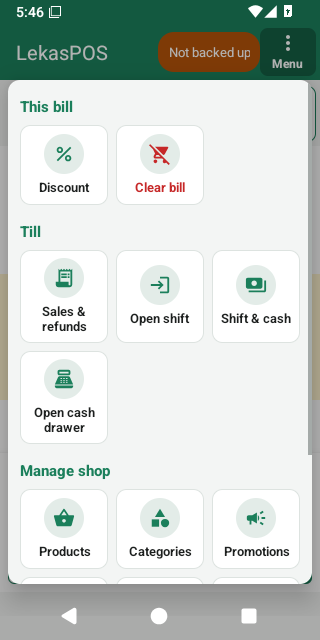
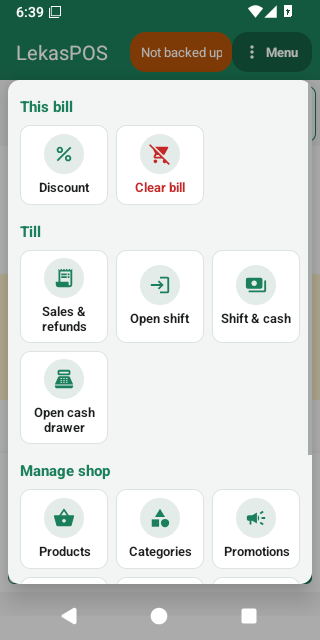
1.17.1 test build published (build 182); guide pictures with the Menu pill

Changed region(s): [[0.4062, 0.0312, 0.9375, 0.125], [0.0938, 0.0, 0.1562, 0.0312], [0.0312, 0.0, 0.0625, 0.0312]]

diff --git a/docs/PHASES.md b/docs/PHASES.md
@@ -39,7 +39,7 @@ to the user. **The next phase starts only after the user's real-device feedback.
 | — | **1.16.1**: a clock corrected back a moment no longer signs the cashier out after Android restarted the app (D-075) | **released** 2026-10-12 (v1.16.1, build 173) — the owner tested it on the phone (2026-10-13): "all good"; offered in the app to shops on 1.6.1+ |
 | — | **1.16.0**: icons and groups — the Menu as one sheet of tiles (This bill, Till, Manage shop: the back office one tap away), Settings in five groups with icons, icons on Inventory, the main buttons and payment methods, product pictures in the Products list, red Delete buttons, four misleading texts fixed (D-074) | **released** 2026-10-12 (v1.16.0, build 169) — the owner asked to release it without a test build first; offered in the app to shops on 1.6.1+; phone checks still to run |
 | — | **1.15.0**: a multi-buy with several prices ("2 for RM3, 3 for RM4"), the bill takes the cheapest mix; promotions made per price on the same products combine (D-073) | **released** 2026-10-12 (v1.15.0, build 162) — the owner tested it: "all good"; offered in the app to shops on 1.6.1+ |
-| — | **1.17.0**: the owner's feedback on 1.16.1 — every tappable control looks like a button (dialog buttons, payment, "Tap here" texts); the catalogue opens on All; held sideways the tiles start at the top; no Share after a sale; Settings → Beep sound (this till's speaker by default, not the cast TV) (D-076) | test build v1.17.0 (build 180) → **1.17.1** on branch `ui-feedback`: the bill right under the bar again, Menu a pill (the owner's check of 1.17.0) |
+| — | **1.17.0**: the owner's feedback on 1.16.1 — every tappable control looks like a button (dialog buttons, payment, "Tap here" texts); the catalogue opens on All; held sideways the tiles start at the top; no Share after a sale; Settings → Beep sound (this till's speaker by default, not the cast TV) (D-076) | test builds v1.17.0 (build 180) and **v1.17.1** (build 182: the bill right under the bar again, Menu a pill) — waiting for the owner's phone check |
 
 ## Open questions for the user
 
@@ -2071,7 +2071,17 @@ bill only") and where Share goes ("remove after a sale only").
 - [x] Menu: a pill like the others on the bar (`pill_info_bg`, 40dp drawn in its 56dp target, "⋮ Menu" on one line);
       `top_button_bg` removed; the bar's end padding 8dp so the pill does not touch the screen's edge
 - [x] Docs: guide EN + MS (the totals line), `features.md`, `codemap.md`, D-076, this file
-- [ ] CI; guide pictures; test build v1.17.1
+- [x] CI run 38289383645: API 21's emulator download failed ("Error on ZipFile unknown archive", no test ran); every tablet
+      picture since the second 1.17.0 run was covered by the emulator's "System UI isn't responding" → `screenshots.sh`
+      sets `hide_error_dialogs` (Android's own crash/ANR dialogs; the tests still fail on an app crash). Run
+      38291378544 (675e78e, build 182): all jobs green — instrumented API 21 and 36, tablet, release smoke API 21 and 36,
+      lint. Release APK **1,659,141 bytes**
+- [x] Guide pictures from run 38291378544: phone `sell`, `sell-empty`, `pay`, `pay-cash`, `menu`, `settings` and
+      `tablet-sell` (EN + MS); the tablet's dialog checked (Cancel outlined, Clear bill filled)
+- [x] **Test build v1.17.1** (2026-10-13): pre-release on 675e78e, build 182, assets `LekasPOS.apk`, `LekasPOS-1.17.1.apk`,
+      `mapping-1.17.1.txt`; SHA-256 `78126fe9…b982`; certificate SHA-256 `0a67abec…d4b9`. 1.16.1 stays the latest release
+- [ ] The owner's phone check; then merge `ui-feedback` into `main`, perf FULL, public release (smoke baseline, guide's
+      "For LekasPOS 1.17.1")
 
 ### Needs real-device testing (1.17.0)
 
